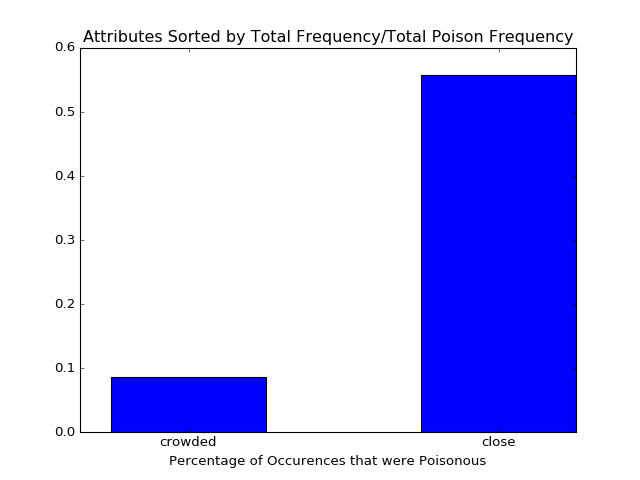
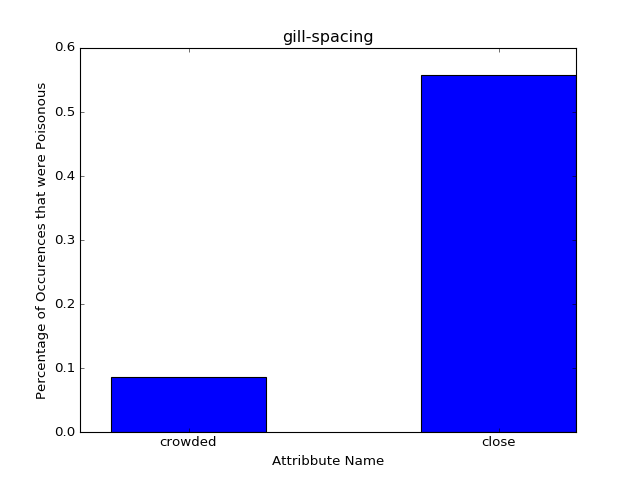
barcharts

diff --git a/visualizations/histogram.py b/visualizations/histogram.py
@@ -25,9 +25,11 @@ for key in tf_tpf:
 
     fig = plt.figure()
 
-    plt.title('Attributes Sorted by Total Frequency/Total Poison Frequency')
+    plt.title('%s'%(key))
+
     rects1 = plt.bar(np.arange(len(all_corrs))+bar_width ,[x[1] for x in all_corrs],bar_width)
-    plt.xlabel("Percentage of Occurences that were Poisonous")
+    plt.ylabel("Percentage of Occurences that were Poisonous")
+    plt.xlabel("Attribbute Name")
     plt.xticks(np.arange(len(all_corrs))+bar_width*3/2, [x[0] for x in all_corrs])
 
     plt.savefig('barcharts/%s.png' % (key), dpi=fig.dpi)
